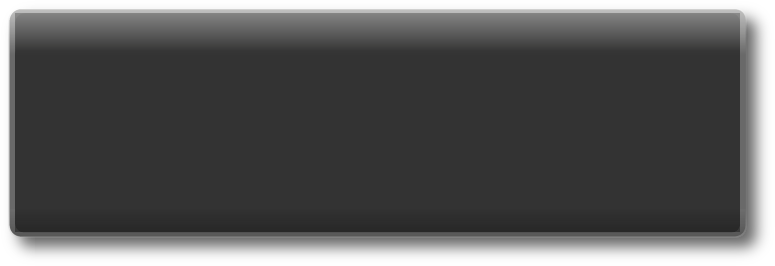
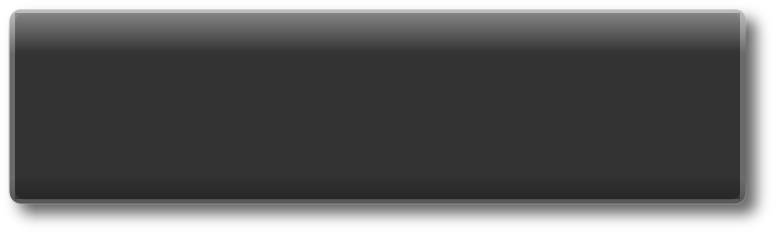
melange 0.48.0: окно TorrServer как штатное INFO — «Подпись: значение», имя по пикселям, 0 КБ/с
Одна колонка серым (15), шаг 34, текст от x 1170, первая строка y 91 —
по скриншотам r25 окна «Контейнер / Кодек». Подложка 775×233 под 5 строк.
Имя раздачи режется aio_gc_cut_w (ширины шрифта, SMALL = 29 px) до строки
690 px за подписью «Раздача: », с «…»; params n проверяются тем же
обрезанием. Скорость в окне: 0 → «0 КБ/с» (aio_speed_str с $zero), в окне
ожидания — «—» как раньше. tsi_bad (en) короче — влезает в строку.

Changed region(s): [[0.0, 0.8412, 0.96, 0.9013], [0.0, 0.03, 0.96, 0.0601]]

diff --git a/plugin/melange/ts_info.php b/plugin/melange/ts_info.php
@@ -7,7 +7,8 @@
 // once). aio_tsi_vod gives vod_info its green. Its state is in the params of
 // the actions (hash, the release, language, error flag), never in Aio: the
 // list may be gone under the player.
-// Reads Aio::$settings. Functions are global; the require order is in main.php.
+// Reads Aio::$settings; text widths: aio_gc_* (gcomps.php). Functions are
+// global; the require order is in main.php.
 // Types in the PHPDoc (AioTsiParams): phpstan-types.neon of the repository.
 
 define('AIO_TSI_TICK_MS', 1000);
@@ -16,31 +17,28 @@ define('AIO_TSI_TICK_ERR_MS', 5000);
 // operation_timeout of the actions, ms: the "get" takes 2 s at most.
 define('AIO_TSI_TIMEOUT', 5000);
 // The window on 1920x1080, its frame without the shadow: x 1150..1880, from
-// y 80 as the INFO window of the player. Its plate img/ts_info_bg.png is
-// drawn at its own size, AIO_TSI_BG_* (the frame plus the shadow, the
-// extents of the skin's osd_glass: 13 left, 9 top, 32 right, 29 bottom).
+// y 80 as the INFO window of the player (its border is seen from x 1145, as
+// that of the INFO window from 145). Its plate img/ts_info_bg.png is drawn at
+// its own size, AIO_TSI_BG_* (the frame plus the shadow, the extents of the
+// skin's osd_glass: 13 left, 9 top, 32 right, 29 bottom).
 define('AIO_TSI_X', 1150);
 define('AIO_TSI_Y', 80);
+define('AIO_TSI_W', 730);
 define('AIO_TSI_BG_X', 1137);
 define('AIO_TSI_BG_Y', 71);
 define('AIO_TSI_BG_W', 775);
-define('AIO_TSI_BG_H', 266);
-// Rows of the SMALL font: the first at AIO_TSI_TOP, AIO_TSI_LH apart; the
-// labels at AIO_TSI_PAD, the values AIO_TSI_VAL right of them; "Seeders" in
-// the row of the peers AIO_TSI_SEEDS right of the values, its value
-// AIO_TSI_SEEDS_VAL further.
+define('AIO_TSI_BG_H', 233);
+// Rows "Label: value" of the SMALL font in the grey of the INFO window, as
+// there (r25 screenshots 29.10.2026): the first at AIO_TSI_TOP, AIO_TSI_LH
+// apart, from AIO_TSI_PAD of the frame, as wide as it minus AIO_TSI_PAD on
+// both sides. AIO_TSI_PX: SMALL in px for aio_gc_w (the widths of the
+// screenshots: 29, not 30).
 define('AIO_TSI_ROWS', 5);
-define('AIO_TSI_TOP', 20);
-define('AIO_TSI_LH', 38);
-define('AIO_TSI_PAD', 30);
-define('AIO_TSI_VAL', 170);
-define('AIO_TSI_SEEDS', 200);
-define('AIO_TSI_SEEDS_VAL', 130);
-// Characters of the name of the release: the column of the values is ~500 px.
-define('AIO_TSI_NAME_MAX', 32);
-// Colours of the skin: the labels grey (a9a9a9), the values light.
-define('AIO_TSI_C_LABEL', '15');
-define('AIO_TSI_C_VALUE', '14');
+define('AIO_TSI_TOP', 11);
+define('AIO_TSI_LH', 34);
+define('AIO_TSI_PAD', 20);
+define('AIO_TSI_PX', 29);
+define('AIO_TSI_COLOR', '15');
 
 // The fields of vod_info for row $r ($ts: via TorrServer): green opens the
 // window; none (array()) unless TorrServer. No timer until it opens.
@@ -89,16 +87,27 @@ function aio_tsi_acts($p, $open)
         GUI_EVENT_TIMER => aio_tsi_input_act('tsi_tick', $p));
 }
 
+// Width of a row of the window, px.
+/**
+ * @return int
+ */
+function aio_tsi_text_w()
+{
+    return AIO_TSI_W - 2 * AIO_TSI_PAD;
+}
+
 // A name in one line of the window: no control characters or line breaks
-// (U+0085, U+2028, U+2029 too), cut to the column.
+// (U+0085, U+2028, U+2029 too), cut with "…" to the row after the label
+// "Release: " of $lang. A name it gave comes back as it is.
 /**
  * @param string $s
+ * @param string $lang
  * @return string
  */
-function aio_tsi_name($s)
+function aio_tsi_name($s, $lang)
 {
-    return aio_cut(trim(strval(preg_replace('/[\x00-\x1F\x7F\x{0085}\x{2028}\x{2029}]+/u', ' ', aio_utf8($s)))),
-        AIO_TSI_NAME_MAX);
+    return aio_gc_cut_w(trim(strval(preg_replace('/[\x00-\x1F\x7F\x{0085}\x{2028}\x{2029}]+/u', ' ', aio_utf8($s)))),
+        AIO_TSI_PX, aio_tsi_text_w() - aio_gc_w(aio_tr($lang, 'tsi_l_name') . ': ', AIO_TSI_PX));
 }
 
 // Params of the window of vod_play of row $r ($ts: via TorrServer): 'h' the
@@ -115,7 +124,8 @@ function aio_tsi_params($r, $ts, $lang)
 {
     if (!$ts || !preg_match('/^[0-9a-f]{40}$/D', $r['hash']))
         return null;
-    return array('h' => $r['hash'], 'n' => aio_tsi_name($r['label']), 'l' => $lang === 'ru' ? 'ru' : 'en', 'e' => '0');
+    $l = $lang === 'ru' ? 'ru' : 'en';
+    return array('h' => $r['hash'], 'n' => aio_tsi_name($r['label'], $l), 'l' => $l, 'e' => '0');
 }
 
 // Params of the input -> as aio_tsi_params made them, or null.
@@ -134,8 +144,8 @@ function aio_tsi_params_in($in)
             return null;
         $p[$k] = $v;
     }
-    if (!mb_check_encoding($p['n'], 'UTF-8') || mb_strlen($p['n'], 'UTF-8') > AIO_TSI_NAME_MAX + 3 ||
-        preg_match('/[\x00-\x1F\x7F\x{0085}\x{2028}\x{2029}]/u', $p['n']))
+    // A name as aio_tsi_name leaves it: UTF-8, one line, cut to the row.
+    if (!mb_check_encoding($p['n'], 'UTF-8') || aio_tsi_name($p['n'], $p['l']) !== $p['n'])
         return null;
     return array('h' => $p['h'], 'n' => $p['n'], 'l' => $p['l'], 'e' => $p['e']);
 }
@@ -171,18 +181,18 @@ function aio_tsi_size($j, $k, $lang, $zero)
     return $zero && is_numeric($v) && (float) $v == 0 ? aio_size_str(0.0, $lang) : "\xE2\x80\x94";
 }
 
-// Rows of the window of TorrServer, each a list of (label, value) pairs: the
-// name of the torrent (none: of the release, $name), download, upload, peers
-// and seeders, loaded of the size. No numbers - one row of one value, why:
-// slow (curl timeout), no answer, no such torrent (404), a reply not
-// understood. $err: that for the log ('' none), without the address.
+// Rows "Label: value" of the window of TorrServer: the name of the torrent
+// (none: of the release, $name), download, upload, peers and seeders, loaded
+// of the size. No numbers - one row why: slow (curl timeout), no answer, no
+// such torrent (404), a reply not understood. $err: that for the log ('' none),
+// without the address.
 /**
  * @param string $hash
  * @param string $name
  * @param string $lang
  * @param string $err
  * @param-out string $err
- * @return list<list<array{string, string}>>
+ * @return list<string>
  */
 function aio_tsi_rows($hash, $name, $lang, &$err)
 {
@@ -195,19 +205,23 @@ function aio_tsi_rows($hash, $name, $lang, &$err)
             $key = $rg['errno'] === 28 ? 'tsi_slow' : 'tsi_down';
         else
             $key = $rg['code'] === 404 ? 'tsi_gone' : 'tsi_bad';
-        return array(array(array('', aio_tr($lang, $key))));
+        return array(aio_tr($lang, $key));
     }
     $err = '';
     $tn = aio_str($j, 'name') !== '' ? aio_str($j, 'name') : aio_str($j, 'title');
+    $l = array();
+    foreach (array('name', 'down', 'up', 'peers', 'seeds', 'loaded') as $k)
+        $l[$k] = aio_tr($lang, "tsi_l_$k") . ': ';
+    // Speeds: 0 is "0 KB/s" here (TorrServer gives 0 while the buffer ahead is full).
     return array(
-        array(array(aio_tr($lang, 'tsi_l_name'), $tn !== '' ? aio_tsi_name($tn) : $name)),
-        array(array(aio_tr($lang, 'tsi_l_down'), aio_speed_str(isset($j['download_speed']) ? $j['download_speed'] : null, $lang))),
-        array(array(aio_tr($lang, 'tsi_l_up'), aio_speed_str(isset($j['upload_speed']) ? $j['upload_speed'] : null, $lang))),
-        array(array(aio_tr($lang, 'tsi_l_peers'), aio_tsi_count($j, 'active_peers') . ' / ' . aio_tsi_count($j, 'total_peers')),
-            array(aio_tr($lang, 'tsi_l_seeds'), aio_tsi_count($j, 'connected_seeders'))),
-        array(array(aio_tr($lang, 'tsi_l_loaded'), str_replace(array('{got}', '{all}'),
+        $l['name'] . ($tn !== '' ? aio_tsi_name($tn, $lang) : $name),
+        $l['down'] . aio_speed_str(isset($j['download_speed']) ? $j['download_speed'] : null, $lang, true),
+        $l['up'] . aio_speed_str(isset($j['upload_speed']) ? $j['upload_speed'] : null, $lang, true),
+        $l['peers'] . aio_tsi_count($j, 'active_peers') . ' / ' . aio_tsi_count($j, 'total_peers') . " \xC2\xB7 " .
+            $l['seeds'] . aio_tsi_count($j, 'connected_seeders'),
+        $l['loaded'] . str_replace(array('{got}', '{all}'),
             array(aio_tsi_size($j, 'loaded_size', $lang, true), aio_tsi_size($j, 'torrent_size', $lang, false)),
-            aio_tr($lang, 'tsi_loaded')))));
+            aio_tr($lang, 'tsi_loaded')));
 }
 
 // The plate of the window: a path of the plugin, as other plugins draw in the
@@ -222,28 +236,9 @@ function aio_tsi_bg()
     return rtrim($dir, '/') . '/img/ts_info_bg.png';
 }
 
+// Components of the window: the plate, then a text per row, each cut to the row.
 /**
- * @param string $text
- * @param int $x
- * @param int $y
- * @param string $color
- * @return array<string, int|string|bool>
- */
-function aio_tsi_text($text, $x, $y, $color)
-{
-    return array(
-        PluginOsdComponent::text => $text,
-        PluginOsdComponent::x => $x,
-        PluginOsdComponent::y => $y,
-        PluginOsdComponent::text_font_size => PLUGIN_FONT_SMALL,
-        PluginOsdComponent::text_color => $color,
-        PluginOsdComponent::text_halo => false);
-}
-
-// Components of the window: the plate, then per row its labels and values
-// (no label: the value from the column of the labels).
-/**
- * @param list<list<array{string, string}>> $rows
+ * @param list<string> $rows
  * @return list<array<string, int|string|bool>>
  */
 function aio_tsi_comps($rows)
@@ -255,22 +250,13 @@ function aio_tsi_comps($rows)
         PluginOsdComponent::image_width => AIO_TSI_BG_W,
         PluginOsdComponent::image_height => AIO_TSI_BG_H));
     foreach (array_slice($rows, 0, AIO_TSI_ROWS) as $i => $row)
-    {
-        $y = AIO_TSI_Y + AIO_TSI_TOP + $i * AIO_TSI_LH;
-        $x = AIO_TSI_X + AIO_TSI_PAD;
-        foreach ($row as $k => $pair)
-        {
-            if ($k > 0)
-                $x += AIO_TSI_VAL + AIO_TSI_SEEDS;
-            if ($pair[0] === '')
-            {
-                $c[] = aio_tsi_text($pair[1], $x, $y, AIO_TSI_C_VALUE);
-                continue;
-            }
-            $c[] = aio_tsi_text($pair[0], $x, $y, AIO_TSI_C_LABEL);
-            $c[] = aio_tsi_text($pair[1], $x + ($k > 0 ? AIO_TSI_SEEDS_VAL : AIO_TSI_VAL), $y, AIO_TSI_C_VALUE);
-        }
-    }
+        $c[] = array(
+            PluginOsdComponent::text => aio_gc_cut_w($row, AIO_TSI_PX, aio_tsi_text_w()),
+            PluginOsdComponent::x => AIO_TSI_X + AIO_TSI_PAD,
+            PluginOsdComponent::y => AIO_TSI_Y + AIO_TSI_TOP + $i * AIO_TSI_LH,
+            PluginOsdComponent::text_font_size => PLUGIN_FONT_SMALL,
+            PluginOsdComponent::text_color => AIO_TSI_COLOR,
+            PluginOsdComponent::text_halo => false);
     return $c;
 }
 

diff --git a/plugin/melange/main.php b/plugin/melange/main.php
@@ -613,18 +613,20 @@ function aio_size_str($b, $lang)
 }
 
 // "1.5 МБ/с" of the download speed of TorrServer (B/s): under 1 MB/s in KB/s,
-// rounded up (over 50 B/s is never "0", as TorrServe); 50 B/s or less, over
-// 10 GB/s (nonsense), not a number (NAN, INF, a string) -> "—".
+// rounded up (over 50 B/s is never "0", as TorrServe); 50 B/s or less (unless
+// $zero: from 0 on), negative, over 10 GB/s (nonsense), not a number (NAN,
+// INF, a string) -> "—".
 /**
  * @param mixed $bps
  * @param string $lang
+ * @param bool $zero
  * @return string
  */
-function aio_speed_str($bps, $lang)
+function aio_speed_str($bps, $lang, $zero = false)
 {
-    $b = is_int($bps) || is_float($bps) ? floatval($bps) : 0.0;
+    $b = is_int($bps) || is_float($bps) ? floatval($bps) : -1.0;
     // PHP 5.3: NAN > 50 is true.
-    if (!is_finite($b) || $b <= 50 || $b > 10737418240.0)
+    if (!is_finite($b) || $b < 0 || (!$zero && $b <= 50) || $b > 10737418240.0)
         return '—';
     return $b >= 1048576 ? number_format($b / 1048576, 1, '.', '') . ' ' . aio_tr($lang, 'speed_mbs') :
         number_format(ceil($b / 1024), 0, '.', '') . ' ' . aio_tr($lang, 'speed_kbs');
